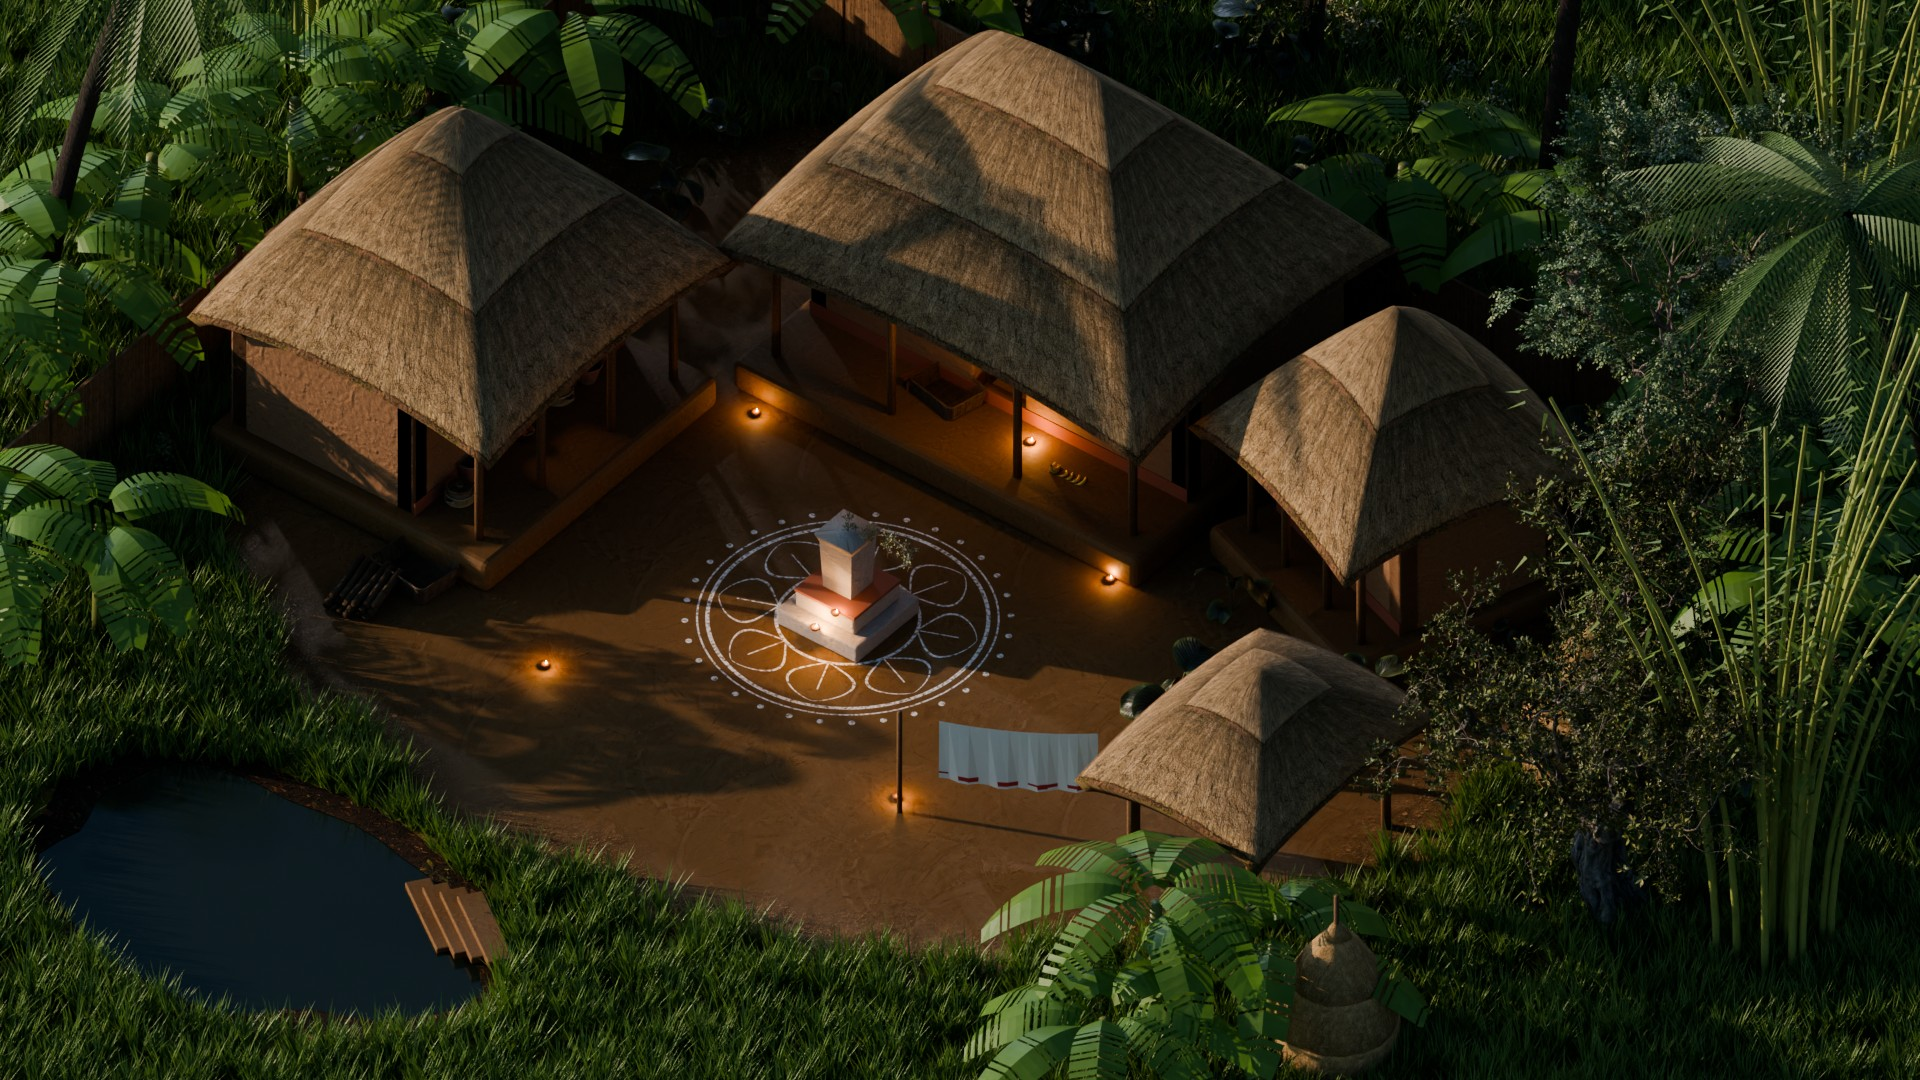
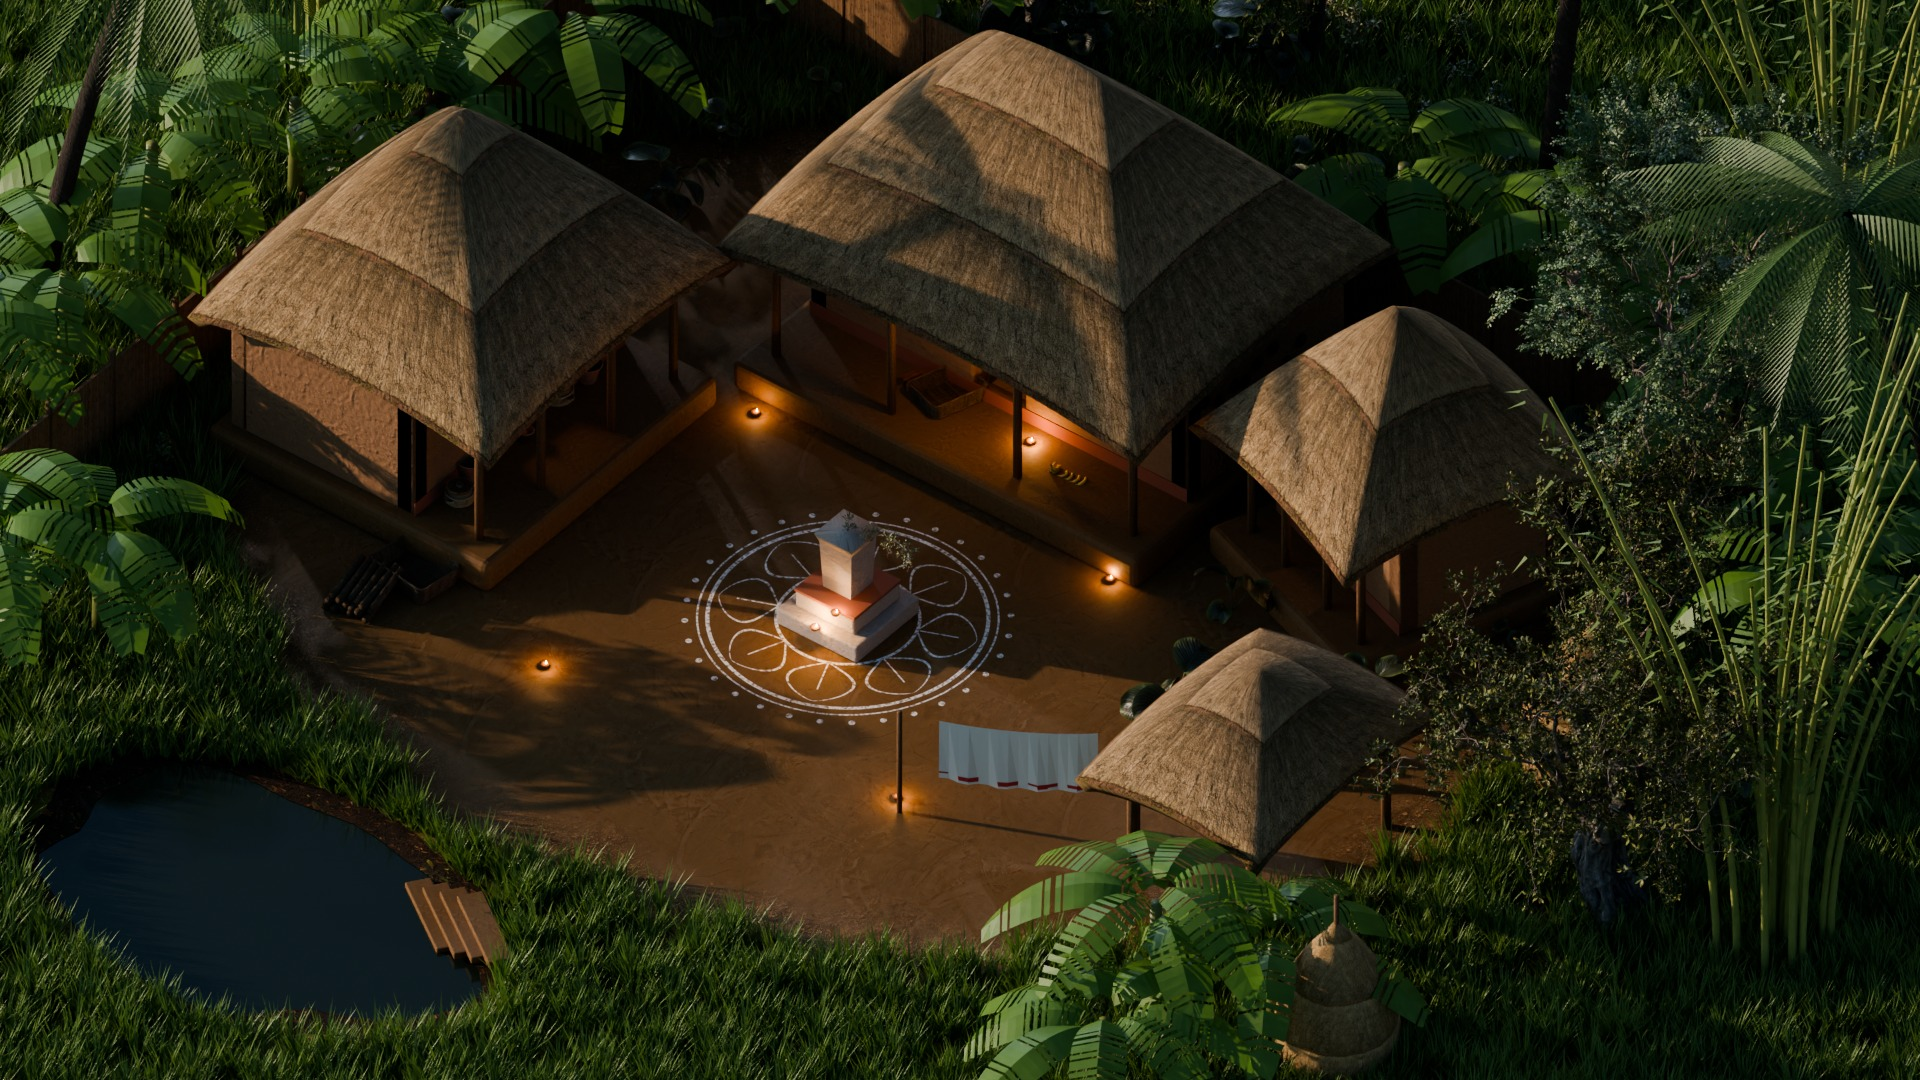
game/godot: сцена у соседей перенесена на открытое место, силуэты персонажей сквозь кровли, вечерний фон пересчитан
Claude-Session: https://claude.ai/code/session_014jRgiugjkD7KKHFNn8Q2Sm

diff --git a/game/probe/build_courtyard.py b/game/probe/build_courtyard.py
@@ -819,7 +819,7 @@ SPOTS = {
     # места сцены
     'sp_entry': (4.5, -9.0, 0.0), 'sp_yard': (1.5, -2.0, 0.0), 'sp_mishra_home': (-1.6, 4.4, 0.55),
     'sp_ghar_door': (-0.5, 5.0, 0.55), 'sp_kitchen_front': (-4.6, 1.2, 0.0), 'sp_offer': (-4.9, 0.0, 0.0),
-    'sp_cook': (-5.6, -0.5, 0.55), 'sp_neighbors': (9.5, -2.5, 0.0), 'sp_neighbor_woman': (10.4, -1.6, 0.0),
+    'sp_cook': (-5.6, -0.5, 0.55), 'sp_neighbors': (4.0, 0.4, 0.0), 'sp_neighbor_woman': (5.0, 1.2, 0.0),
     'sp_shachi_home': (1.2, 4.4, 0.55), 'sp_relative': (-2.6, -1.0, 0.0), 'sp_vishvarupa_in': (5.5, -8.0, 0.0),
     'sp_sleep1': (-2.6, 4.3, 0.55), 'sp_sleep2': (0.6, 4.3, 0.55), 'sp_sleep3': (2.0, 4.6, 0.55),
     'sp_player_start': (3.0, -4.5, 0.0), 'sp_vision': (-4.9, 0.0, 0.0),
